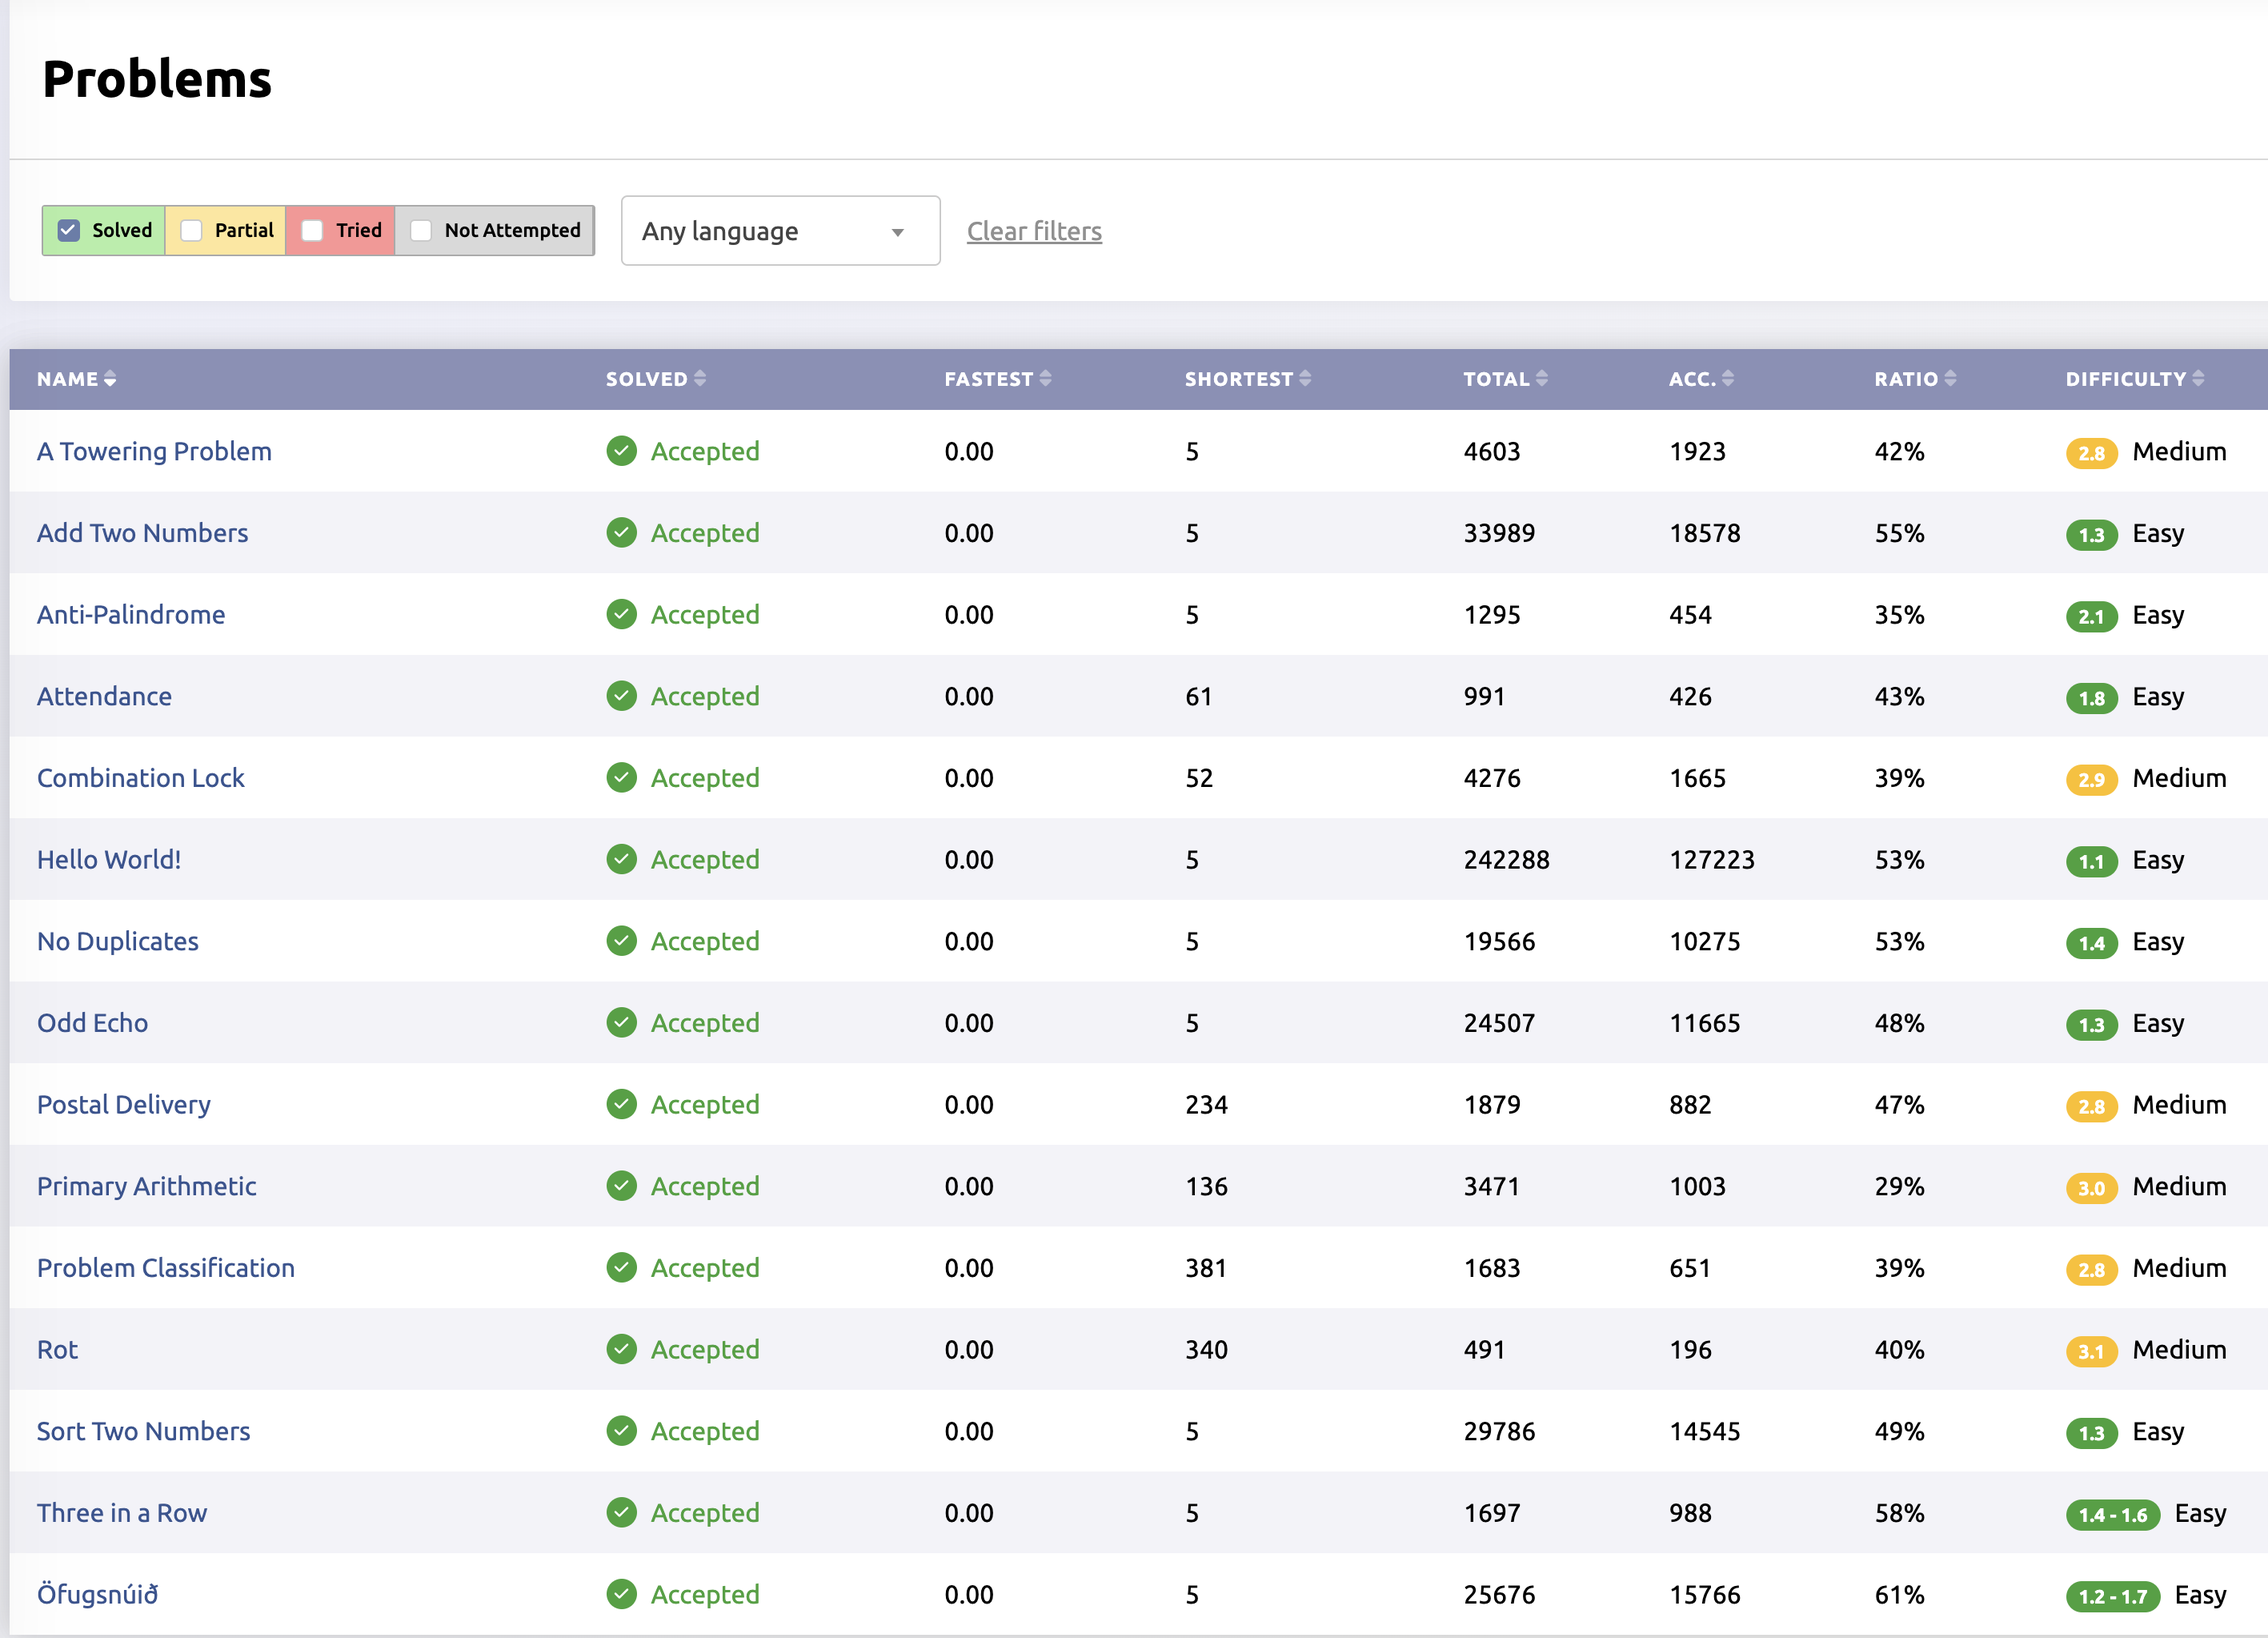
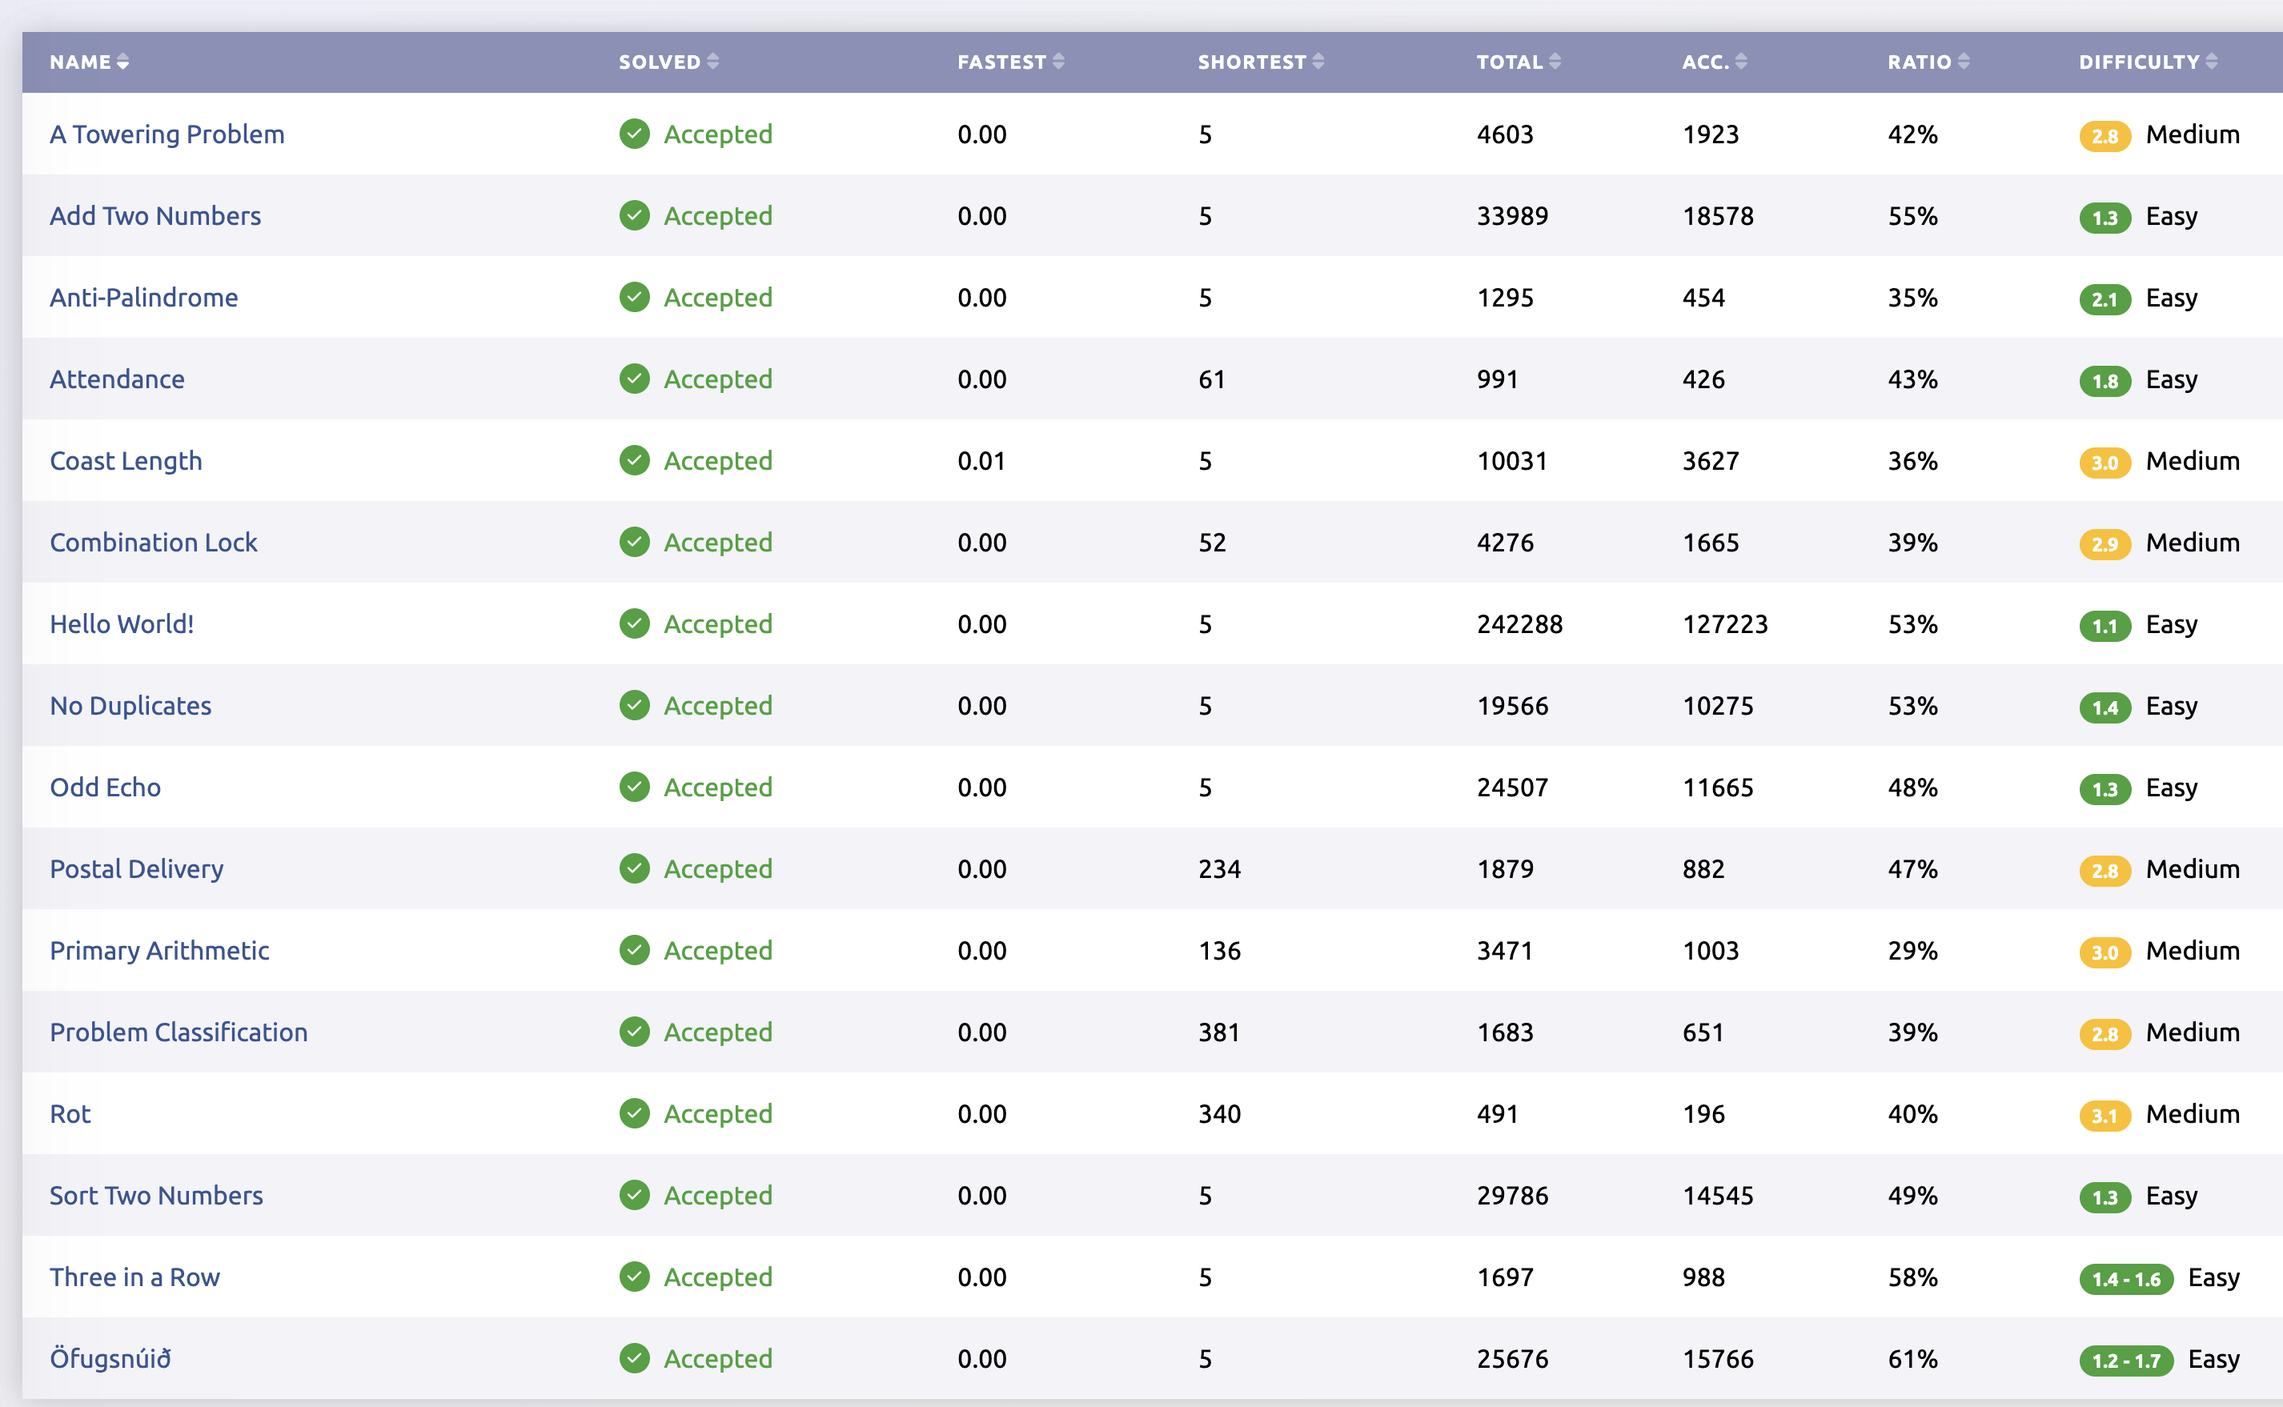
solved coastal_length.py by using deque and set

diff --git a/coastal_length.py b/coastal_length.py
@@ -1,0 +1,269 @@
+# https://open.kattis.com/problems/coast
+
+from dataclasses import dataclass, field
+from pprint import pprint
+from collections import deque
+
+DEBUG   = False
+
+@dataclass
+class Coastal:
+    map: list[list[str]] = field(default_factory=list)
+    queue: deque = field(default_factory=deque, init=False)
+    # created queue_set to improve time complexity in find element in set O(1) rather than in list O(n)
+    queue_set: deque = field(default_factory=set, init=False)
+    count: int = 0
+
+    def __post_init__(self):
+        self.padding()
+        self.row, self.col = len(self.map) - 1, len(self.map[0]) - 1
+        self.run()
+        return
+    
+    def padding(self) -> None:
+        # padding
+        for row in self.map:
+            row.insert(0, '0')
+            row.append('0')
+        lst = list('0' * len(self.map[0]))
+        self.map.insert(0, lst)
+        self.map.append(lst)
+        return
+    
+    def floodfill_sea_dfs(self) -> None:
+        dir = [(0, -1), (-1, 0), (0, 1), (1, 0)]
+        def dfs(r: int, c: int) -> None:
+            if r < 0 or r > self.row or c < 0 or c > self.col or self.map[r][c] == '~':
+                return
+
+            if self.map[r][c] == '1':
+                self.count += 1
+                return
+            elif self.map[r][c] == '0':
+                self.map[r][c] = '~'
+                for dr, dc in dir:
+                    dfs(r + dr, c + dc)
+            return
+        # start 
+        dfs(0, 0)
+        return
+
+    def floodfill_sea_bfs(self) -> None:
+        dir = [(0, -1), (-1, 0), (0, 1), (1, 0)]
+        while self.queue:
+            y, x = self.queue.popleft()
+            self.queue_set.discard((y,x))
+
+            self.map[y][x] = '~'
+            for dy, dx in dir:
+                ny, nx = y + dy, x + dx
+                if (0 <= ny <= self.row) and (0 <= nx <= self.col) and self.map[ny][nx] != '~':
+                    if self.map[ny][nx] == '1':
+                        self.count += 1
+                    elif self.map[ny][nx] == '0' and (ny, nx) not in self.queue_set:
+                        self.queue.append((ny, nx))
+                        self.queue_set.add((ny, nx))
+               
+        return
+    
+    def run_bfs(self, case: str) -> None:
+        if case == 'Case1':
+            starts = [(0,0)] # Case 1
+        elif case == 'Case2':
+            starts = [(0,0), (self.row, self.col)] # Case 2
+        elif case == 'Case3':
+            starts = [(0,0), (self.row, self.col), (0, self.col), (self.row, 0)] # Case 3
+        else:
+            # Case 4
+            starts = list()
+            for x in range(self.col + 1):
+                starts.append((0, x))
+            for y in range(1, self.row):
+                starts.append((y,0))
+                starts.append((y, self.col))
+            for x in range(self.col + 1):
+                starts.append((self.row, x))
+
+        for y, x in starts:
+            self.queue.append((y, x))
+            self.queue_set.add((y, x))
+
+        if DEBUG:
+            print('-'*50, "[starting queue]")
+            print(self.queue)
+
+        return self.floodfill_sea_bfs()
+    
+    def run_dfs(self) -> None:
+        return self.floodfill_sea_dfs()
+    
+    def run(self) -> None:
+        '''
+        Case0: Used floodfill with dfs and start at (0,0)
+            1. count = 86 is wrong. (actual count should be 94)
+            2. cannot understand why (8,7) cell cannot be reached i.e. self.map[8][7] = '0'
+        '''
+        # self.run_dfs()
+
+        '''
+        Case1 : Used floodfill with bfs and start at (0,0)
+            1. same result as floodfill with dfs.
+            2. count = 86 is wrong. (actual count should be 94)
+            3. cannot understand why (8,7) cell cannot be reached i.e. self.map[8][7] = '0'
+        '''
+        # self.run_bfs('Case1')
+
+        '''
+        Case2 : Used floodfill with bfs and start at (0,0) and (9, 11)
+            1. managed to reach (8, 7) ie self.map[8][7] = '~'
+            2. but count = 91 is wrong. (actual count should be 94)
+        '''
+        # self.run_bfs('Case2')
+
+        '''
+        Case3 : Used floodfill with bfs and start at 4 corners [(0,0), (0, 11), (9, 0) (9, 11)]
+            1. managed to reach (8, 7) ie self.map[8][7] = '~'
+            2. count = 94 is correct. (actual count should be 94)
+            3. faced time exceeded when submit to kattis i.e. too slow
+        '''
+        self.run_bfs('Case3')
+
+        '''
+        Case4 : Used floodfill with bfs and start at all cells along the perimeter of map.
+            1. managed to reach (8, 7) ie self.map[8][7] = '~'
+            2. count = 94 is correct. (actual count should be 94)
+            3. no improvement in term of time. Still faced "time exceeded" when submit to kattis.
+        '''
+        # self.run_bfs('Case4')
+        return
+
+def parse_inputs() -> list[list[int]]:
+    n, m = input().strip().split()
+    n = int(n)
+    lines = list()
+    while n:
+        try:
+            line = input().strip()
+            if len(line) != int(m):
+                raise TypeError(f"TypeError: Length of string must be {m}.")
+            line = list(line)
+            lines.append(line)
+            n -= 1
+        except TypeError as e:
+            print(e)
+            return
+    return lines
+
+def main() -> None:
+    lines = parse_inputs()
+    if not lines:
+        return
+    
+    coastal = Coastal(map = lines)
+
+    if DEBUG:
+        print('-'*50, "[costal length]")
+    print(coastal.count)
+    if DEBUG:
+        print('-'*50, "[map]")
+        pprint(coastal.map)
+
+if __name__ == "__main__":
+    main()
+
+'''
+❯ echo "8 10
+0111011100
+0100000011
+0111111010
+1000000011
+1111111100
+1000001010
+0110101000
+0000110111
+" | python3 coastal_length.py
+
+====================================================================[dfs]
+-------------------------------------------------- [costal length]
+86
+-------------------------------------------------- [map]
+[['~', '~', '~', '~', '~', '~', '~', '~', '~', '~', '~', '~'],
+ ['~', '~', '1', '1', '1', '~', '1', '1', '1', '~', '~', '~'],
+ ['~', '~', '1', '~', '~', '~', '~', '~', '~', '1', '1', '~'],
+ ['~', '~', '1', '1', '1', '1', '1', '1', '~', '1', '~', '~'],
+ ['~', '1', '~', '~', '~', '~', '~', '~', '~', '1', '1', '~'],
+ ['~', '1', '1', '1', '1', '1', '1', '1', '1', '~', '~', '~'],
+ ['~', '1', '~', '~', '~', '~', '~', '1', '~', '1', '~', '~'],
+ ['~', '~', '1', '1', '~', '1', '~', '1', '~', '~', '~', '~'],
+ ['~', '~', '~', '~', '~', '1', '1', '0', '1', '1', '1', '~'],
+ ['~', '~', '~', '~', '~', '~', '~', '~', '~', '~', '~', '~']]
+====================================================================[bfs-Case 1]
+-------------------------------------------------- [starting queue]
+[(0, 0)]
+-------------------------------------------------- [costal length]
+86
+-------------------------------------------------- [map]
+[['~', '~', '~', '~', '~', '~', '~', '~', '~', '~', '~', '~'],
+ ['~', '~', '1', '1', '1', '~', '1', '1', '1', '~', '~', '~'],
+ ['~', '~', '1', '~', '~', '~', '~', '~', '~', '1', '1', '~'],
+ ['~', '~', '1', '1', '1', '1', '1', '1', '~', '1', '~', '~'],
+ ['~', '1', '~', '~', '~', '~', '~', '~', '~', '1', '1', '~'],
+ ['~', '1', '1', '1', '1', '1', '1', '1', '1', '~', '~', '~'],
+ ['~', '1', '~', '~', '~', '~', '~', '1', '~', '1', '~', '~'],
+ ['~', '~', '1', '1', '~', '1', '~', '1', '~', '~', '~', '~'],
+ ['~', '~', '~', '~', '~', '1', '1', '0', '1', '1', '1', '~'],
+ ['~', '~', '~', '~', '~', '~', '~', '~', '~', '~', '~', '~']]
+ 
+====================================================================[bfs-Case 2]
+-------------------------------------------------- [starting queue]
+[(0, 0), (9, 11)]
+-------------------------------------------------- [costal length]
+91
+-------------------------------------------------- [map]
+[['~', '~', '~', '~', '~', '~', '~', '~', '~', '~', '~', '~'],
+ ['~', '~', '1', '1', '1', '~', '1', '1', '1', '~', '~', '~'],
+ ['~', '~', '1', '~', '~', '~', '~', '~', '~', '1', '1', '~'],
+ ['~', '~', '1', '1', '1', '1', '1', '1', '~', '1', '~', '~'],
+ ['~', '1', '~', '~', '~', '~', '~', '~', '~', '1', '1', '~'],
+ ['~', '1', '1', '1', '1', '1', '1', '1', '1', '~', '~', '~'],
+ ['~', '1', '~', '~', '~', '~', '~', '1', '~', '1', '~', '~'],
+ ['~', '~', '1', '1', '~', '1', '~', '1', '~', '~', '~', '~'],
+ ['~', '~', '~', '~', '~', '1', '1', '~', '1', '1', '1', '~'],
+ ['~', '~', '~', '~', '~', '~', '~', '~', '~', '~', '~', '~']]
+
+====================================================================[bfs-Case 3]
+-------------------------------------------------- [starting queue]
+[(0, 0), (9, 11), (0, 11), (9, 0)]
+-------------------------------------------------- [costal length]
+94
+-------------------------------------------------- [map]
+[['~', '~', '~', '~', '~', '~', '~', '~', '~', '~', '~', '~'],
+ ['~', '~', '1', '1', '1', '~', '1', '1', '1', '~', '~', '~'],
+ ['~', '~', '1', '~', '~', '~', '~', '~', '~', '1', '1', '~'],
+ ['~', '~', '1', '1', '1', '1', '1', '1', '~', '1', '~', '~'],
+ ['~', '1', '~', '~', '~', '~', '~', '~', '~', '1', '1', '~'],
+ ['~', '1', '1', '1', '1', '1', '1', '1', '1', '~', '~', '~'],
+ ['~', '1', '~', '~', '~', '~', '~', '1', '~', '1', '~', '~'],
+ ['~', '~', '1', '1', '~', '1', '~', '1', '~', '~', '~', '~'],
+ ['~', '~', '~', '~', '~', '1', '1', '~', '1', '1', '1', '~'],
+ ['~', '~', '~', '~', '~', '~', '~', '~', '~', '~', '~', '~']]
+
+====================================================================[bfs-Case 4]
+ -------------------------------------------------- [starting queue]
+[(0, 0), (0, 1), (0, 2), (0, 3), (0, 4), (0, 5), (0, 6), (0, 7), (0, 8), (0, 9), (0, 10), (0, 11), 
+(1, 0), (1, 11), (2, 0), (2, 11), (3, 0), (3, 11), (4, 0), (4, 11), (5, 0), (5, 11), (6, 0), (6, 11), (7, 0), (7, 11), (8, 0), (8, 11), 
+(9, 0), (9, 1), (9, 2), (9, 3), (9, 4), (9, 5), (9, 6), (9, 7), (9, 8), (9, 9), (9, 10), (9, 11)]
+-------------------------------------------------- [costal length]
+94
+-------------------------------------------------- [map]
+[['~', '~', '~', '~', '~', '~', '~', '~', '~', '~', '~', '~'],
+ ['~', '~', '1', '1', '1', '~', '1', '1', '1', '~', '~', '~'],
+ ['~', '~', '1', '~', '~', '~', '~', '~', '~', '1', '1', '~'],
+ ['~', '~', '1', '1', '1', '1', '1', '1', '~', '1', '~', '~'],
+ ['~', '1', '~', '~', '~', '~', '~', '~', '~', '1', '1', '~'],
+ ['~', '1', '1', '1', '1', '1', '1', '1', '1', '~', '~', '~'],
+ ['~', '1', '~', '~', '~', '~', '~', '1', '~', '1', '~', '~'],
+ ['~', '~', '1', '1', '~', '1', '~', '1', '~', '~', '~', '~'],
+ ['~', '~', '~', '~', '~', '1', '1', '~', '1', '1', '1', '~'],
+ ['~', '~', '~', '~', '~', '~', '~', '~', '~', '~', '~', '~']]
+'''
